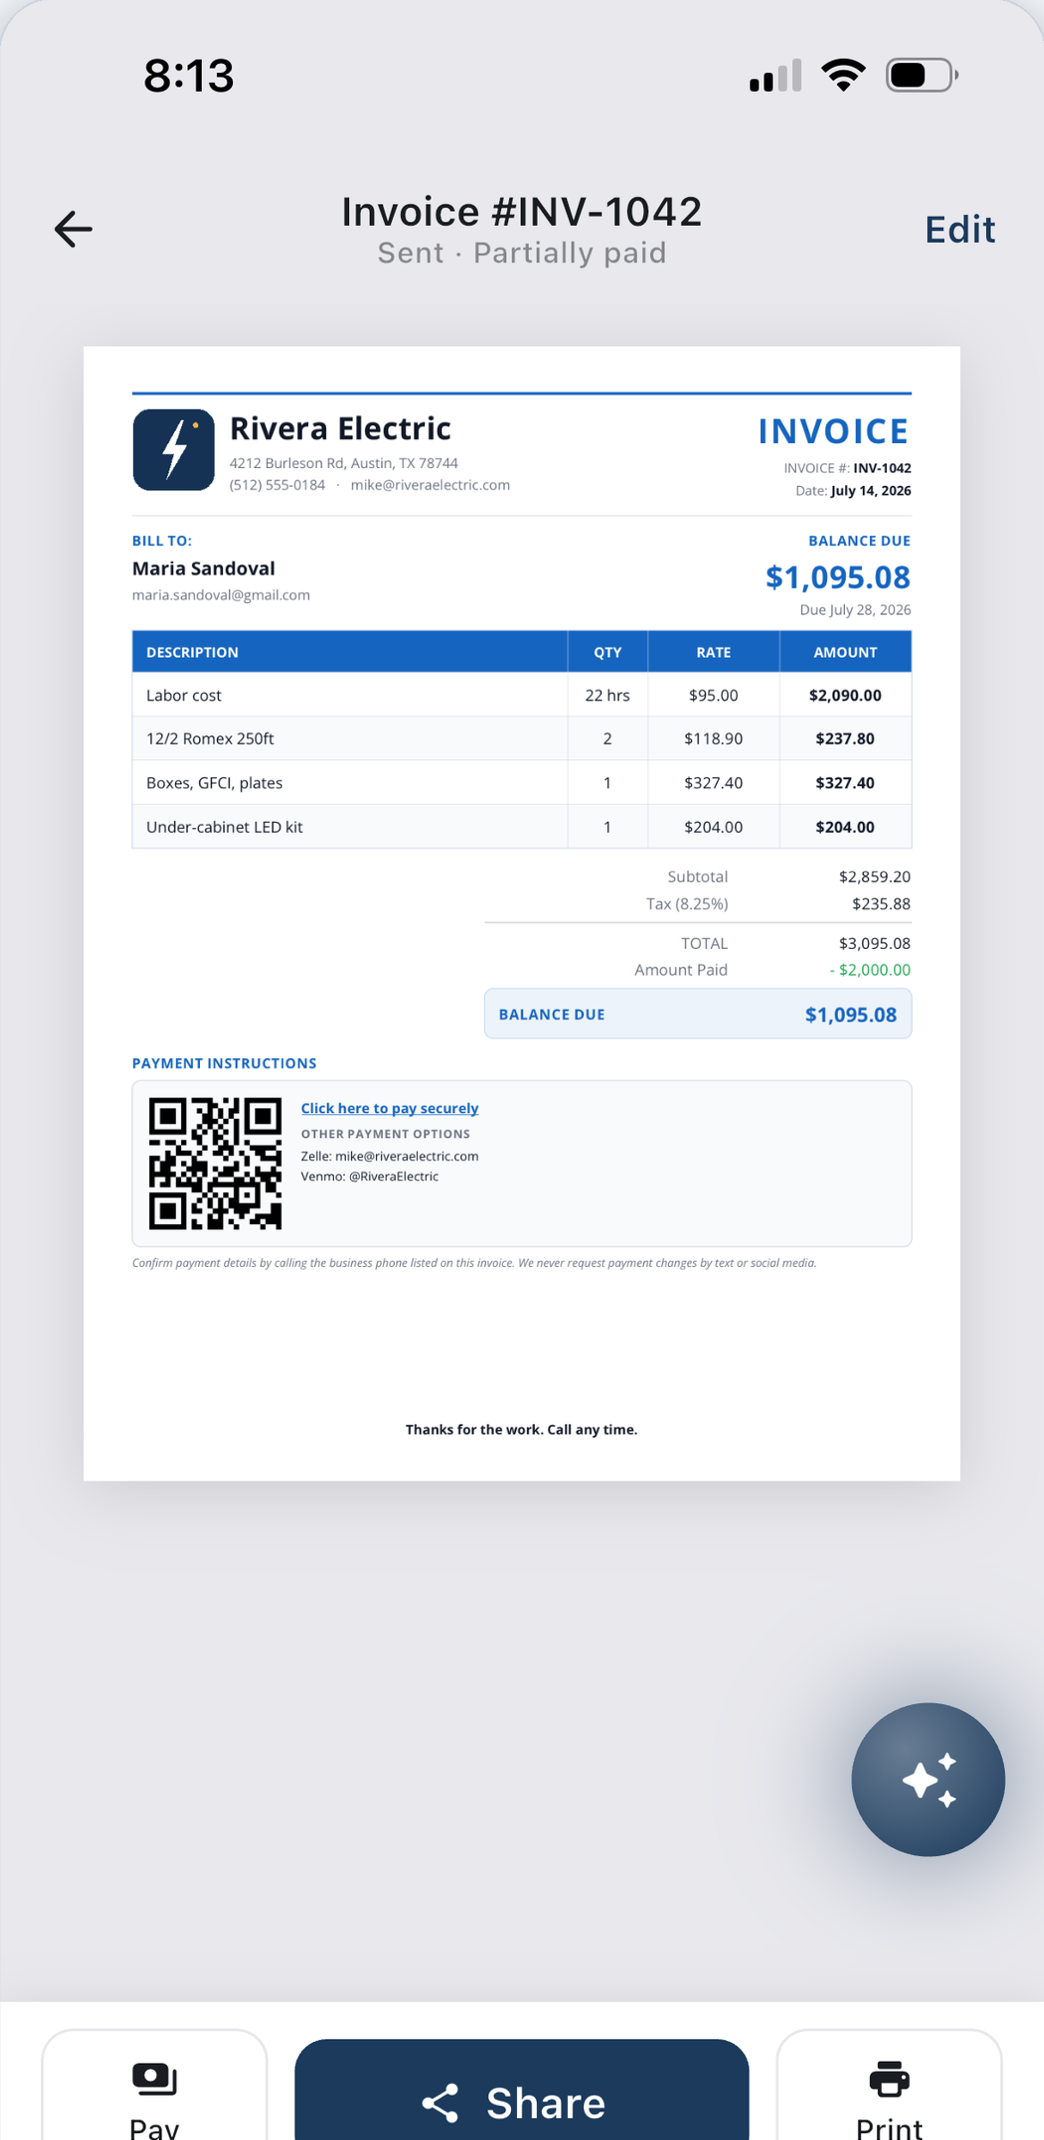
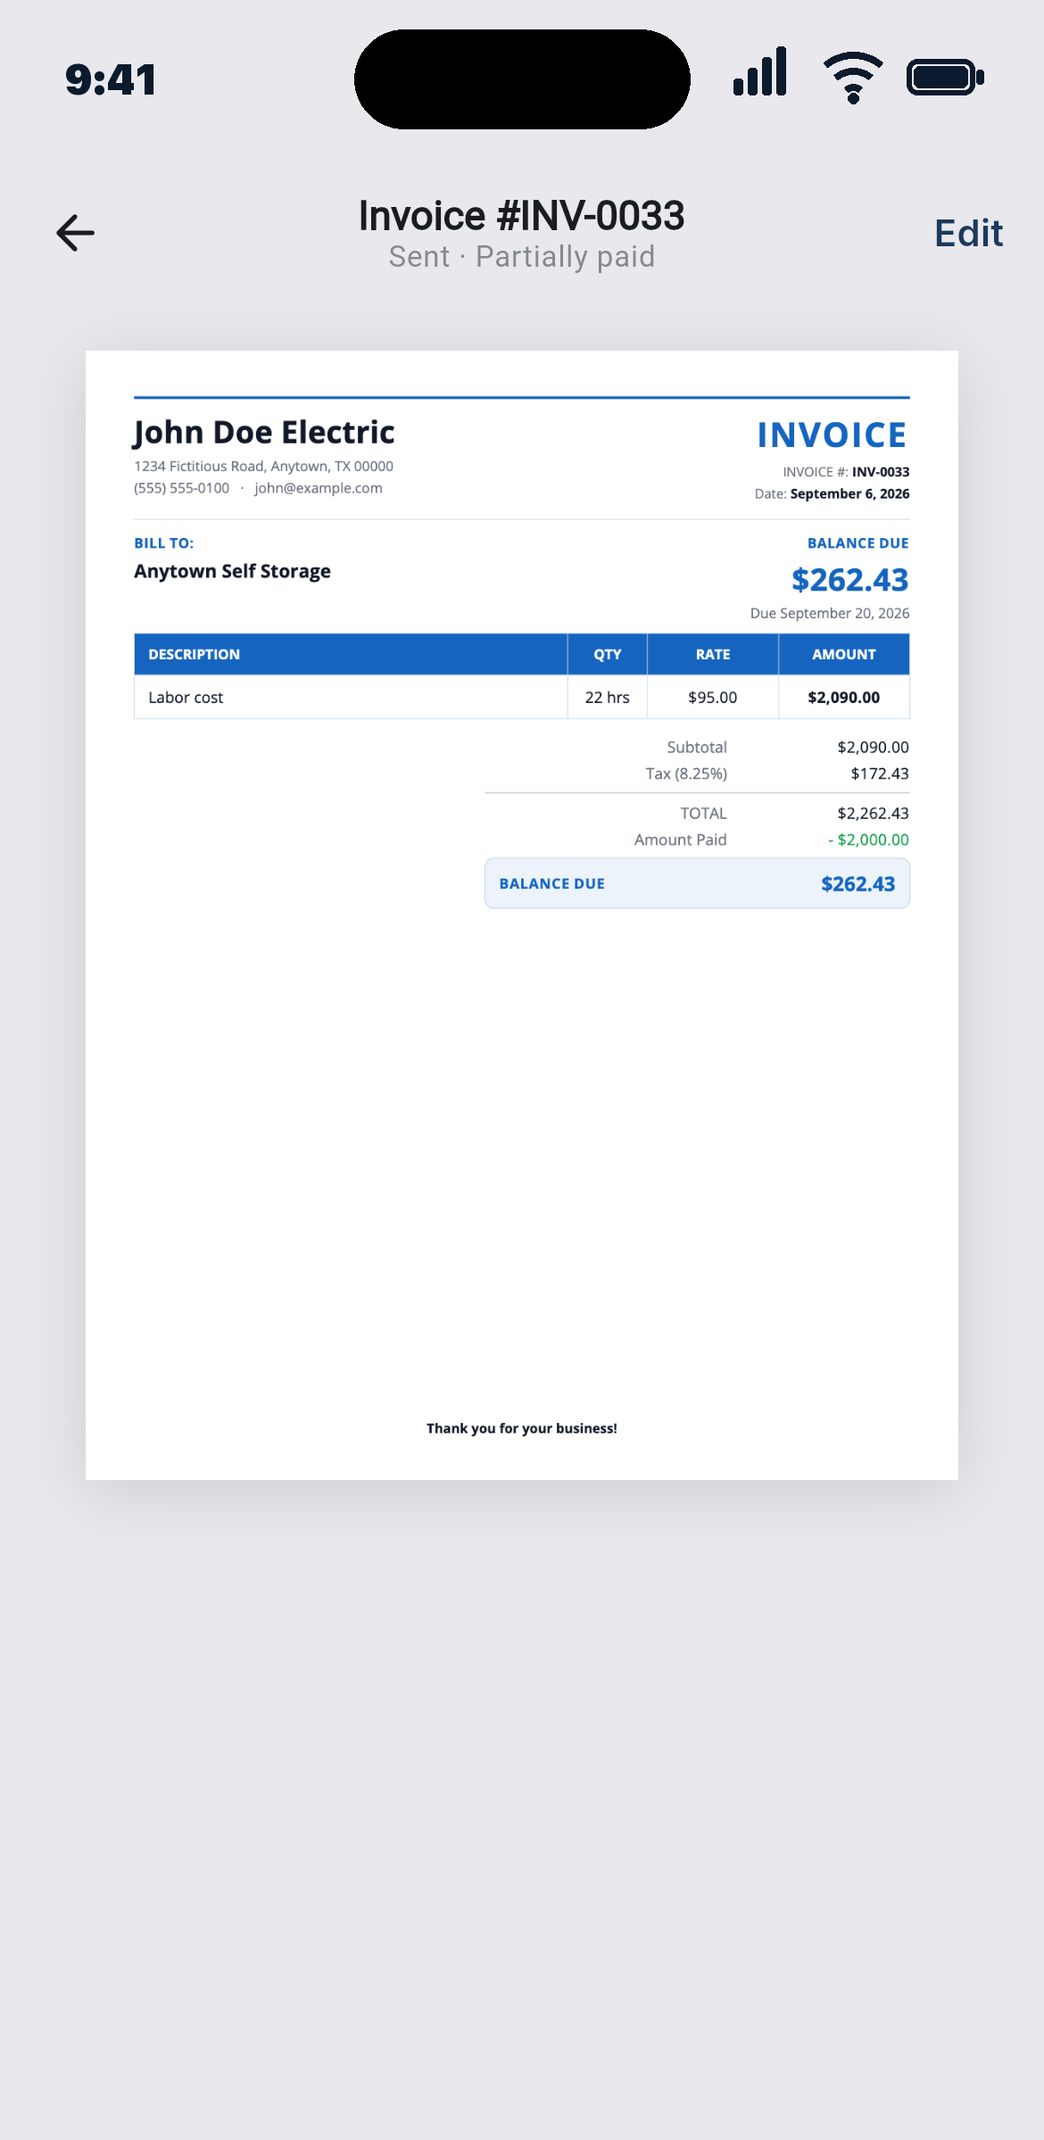
Every screenshot re-shot with the John Doe Electric demo; Rivera Electric retired (#36)
The demo business shared its name with a real company. Owner rule
(2026-09-06): everything public must be obviously fictional. New demo:
John Doe Electric, 1234 Fictitious Road, Anytown TX 00000, clients on
Example/Sample/Fictitious streets, no real vendor or product brand names.

- screenshots/v3/*: six phone screens re-captured from the app (probe build
  of the real UI, 3x, iOS status bar composited), all John Doe Electric.
- screenshots/desk/*: six desk views re-captured at 2x (+ -sm variants).
- The old 01-06 phone shots (unreferenced since v3, all Rivera) and the
  rivera-electric-logo.png file are deleted.
- index.html alt text updated; the tour line now says the books are
  fictional instead of 'a real electrician's'.
- screenshots/play/ (untracked) refreshed with the new store set.

diff --git a/index.html b/index.html
@@ -335,7 +335,7 @@
           <picture>
             <source srcset="/screenshots/v3/voice.webp?v=20260904" type="image/webp">
             <img src="/screenshots/v3/voice.png?v=20260904" width="1044" height="2140" fetchpriority="high"
-                 alt="PicoTally writing a $400 invoice for Greg Watson from a spoken command, with the voice assistant listening at the bottom of the screen.">
+                 alt="PicoTally writing a $411 invoice for Tom Beckett from a spoken command, with the voice assistant listening at the bottom of the screen.">
           </picture>
         </div>
       </div>
@@ -367,7 +367,7 @@
       <div class="center" style="max-width: 720px; margin: 0 auto clamp(48px, 6vw, 80px);">
         <span class="eyebrow">How it works</span>
         <h2>Three habits. The whole back office.</h2>
-        <p class="lead">This is the real app with a real electrician's books in it. Nothing staged.</p>
+        <p class="lead">This is the real app with a full set of books in it. Every name, address and vendor is fictional.</p>
       </div>
 
       <div class="moment">
@@ -392,7 +392,7 @@
             <picture>
               <source srcset="/screenshots/v3/invoice.webp?v=20260904" type="image/webp">
               <img src="/screenshots/v3/invoice.png?v=20260904" width="1044" height="2140" loading="lazy"
-                   alt="A finished PicoTally invoice for Rivera Electric with the logo, line items, total and a tap-to-pay QR code.">
+                   alt="A finished PicoTally invoice for John Doe Electric with the business header, line items, total and balance due.">
             </picture>
           </div>
         </div>
@@ -415,7 +415,7 @@
             <picture>
               <source srcset="/screenshots/v3/receipt.webp?v=20260904" type="image/webp">
               <img src="/screenshots/v3/receipt.png?v=20260904" width="1044" height="2140" loading="lazy"
-                   alt="A scanned City Electric Supply receipt in PicoTally, every line item extracted and tagged as materials or office supplies.">
+                   alt="A scanned Anytown Electric Supply receipt in PicoTally, every line item extracted and tagged as materials, office supplies or personal.">
             </picture>
           </div>
         </div>
